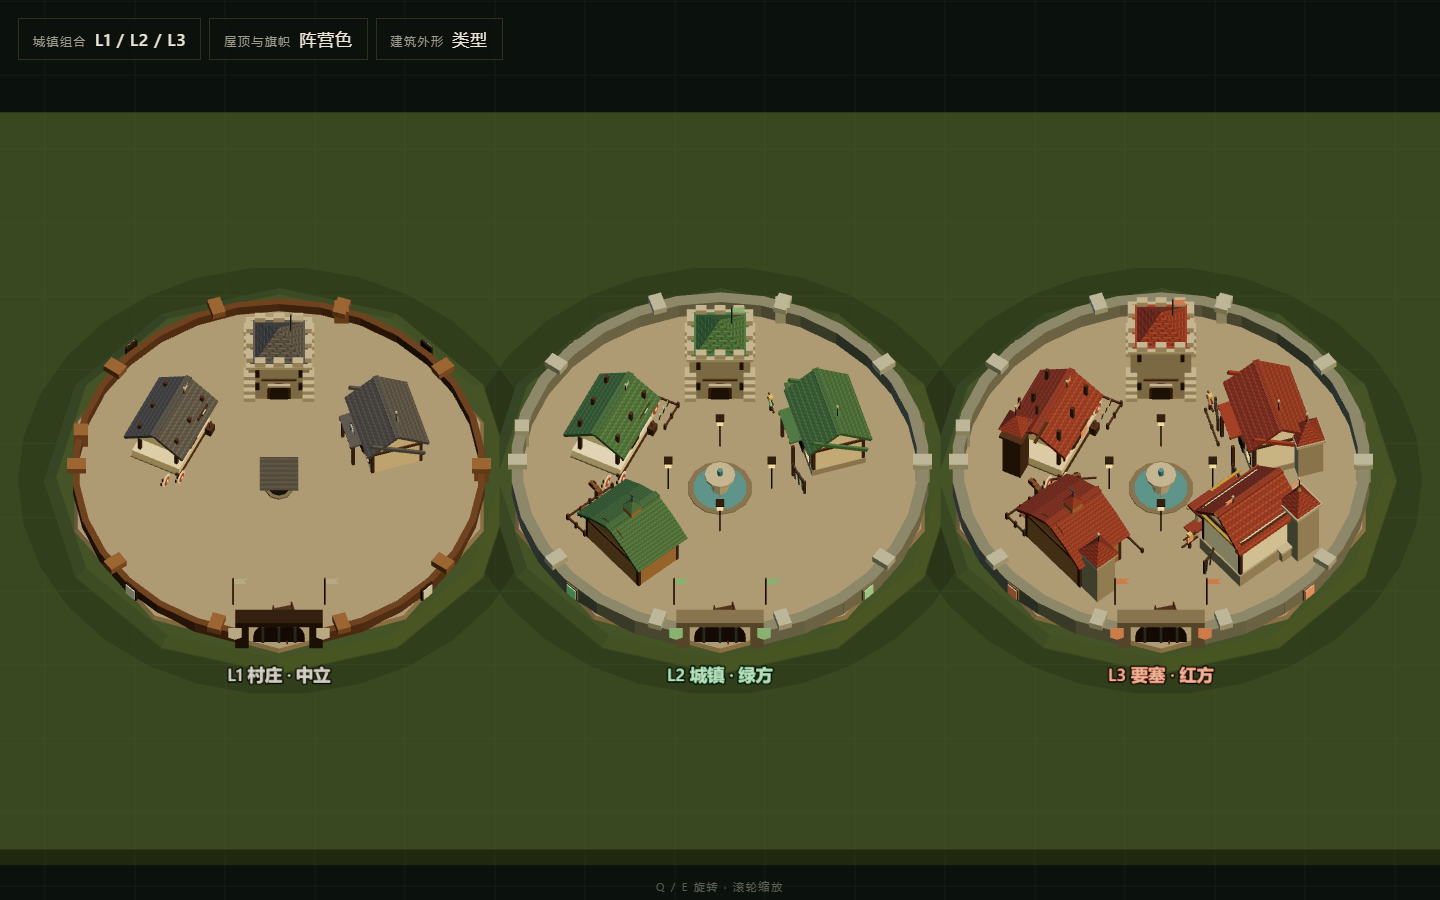
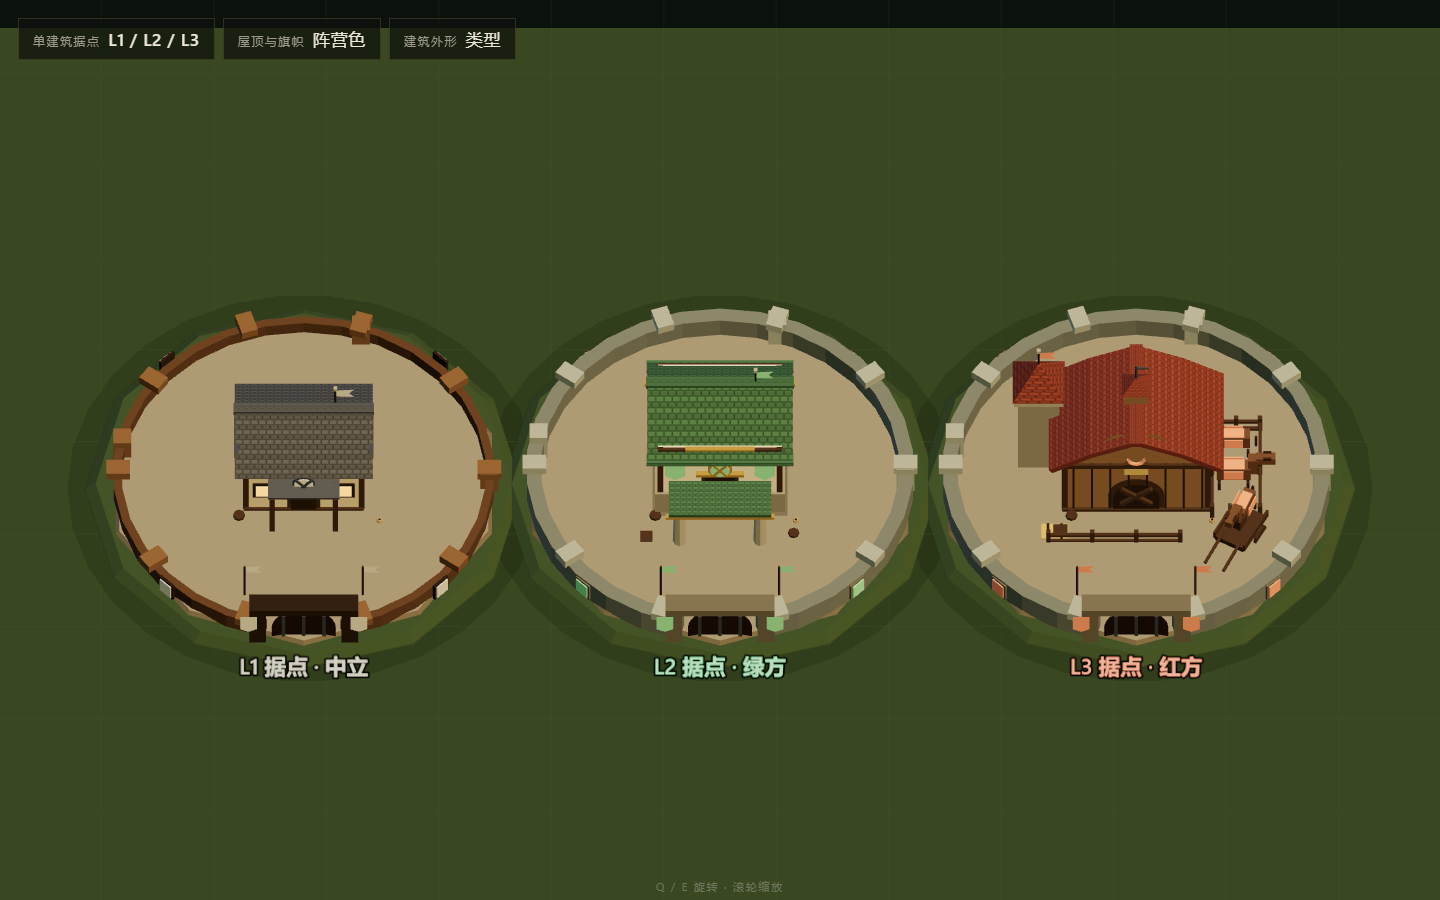
据点改回单建筑并放慢行军

diff --git a/apps/client/src/game/buildings.ts b/apps/client/src/game/buildings.ts
@@ -35,89 +35,6 @@ import type { BuildingKind } from "./building-types";
 
 export * from "./building-types";
 
-export interface BuildingPlacement {
-  kind: BuildingKind;
-  x: number;
-  z: number;
-  rotation: number;
-}
-
-const SLOTS: Array<{ x: number; z: number }> = [
-  { x: -2.4, z: -0.95 },
-  { x: 2.4, z: -0.95 },
-  { x: -1.95, z: 1.95 },
-  { x: 1.95, z: 1.95 },
-];
-
-export function townPlacements(level: number, seed: number): BuildingPlacement[] {
-  const back: BuildingKind[] = (seed & 1) === 0 ? ["infantry", "archer"] : ["archer", "infantry"];
-  const front: BuildingKind[] = (seed & 2) === 0 ? ["cavalry", "elite"] : ["elite", "cavalry"];
-  const kinds: BuildingKind[] = [back[0], back[1], front[0], front[1]];
-  const count = Math.min(4, Math.max(2, level + 1));
-  return SLOTS.slice(0, count).map((slot, index) => ({
-    kind: kinds[index],
-    x: slot.x,
-    z: slot.z,
-    rotation: Math.atan2(-slot.x, -slot.z) + ((seed >> (index + 2)) & 1 ? 0.08 : -0.08),
-  }));
-}
-
-export function buildKeep(palette: TeamPalette, level: number): THREE.Group {
-  const builder = new ModelBuilder();
-  const roof = roofMat(palette);
-  const edge = edgeMat(palette);
-  const cloth = clothMat(palette);
-  const width = 1.35;
-  const depth = 1.25;
-  const tower = 1.35 + (Math.min(3, Math.max(1, level)) - 1) * 0.3;
-  const baseY = 0.14;
-  const top = baseY + tower;
-
-  builder.box([1.65, 0.14, 1.55], STONE_DARK_MAT, 0, 0.07, 0);
-  builder.box([width, tower, depth], STONE_MAT, 0, baseY + tower / 2, 0);
-
-  for (const x of [-width / 2 + 0.02, width / 2 - 0.02]) {
-    for (const z of [-depth / 2 + 0.02, depth / 2 - 0.02]) {
-      for (let index = 0; index < 4; index += 1) {
-        const y = baseY + 0.18 + index * 0.28;
-        if (y > top - 0.2) continue;
-        builder.box([0.26, 0.13, 0.26], STONE_LIGHT_MAT, x, y, z);
-      }
-    }
-  }
-
-  builder.box([width + 0.13, 0.09, depth + 0.13], STONE_LIGHT_MAT, 0, top - 0.02, 0);
-  const merlonY = top + 0.11;
-  for (const z of [-depth / 2 + 0.02, depth / 2 - 0.02]) {
-    for (const x of [-0.42, 0, 0.42]) {
-      builder.box([0.24, 0.18, 0.15], STONE_LIGHT_MAT, x, merlonY, z);
-    }
-  }
-  for (const x of [-width / 2 + 0.02, width / 2 - 0.02]) {
-    for (const z of [-0.36, 0.04, 0.44]) {
-      builder.box([0.15, 0.18, 0.24], STONE_LIGHT_MAT, x, merlonY, z);
-    }
-  }
-
-  builder.cone(0.75, 0.55, 4, roof, 0, top + 0.315, 0, Math.PI / 4);
-  builder.box([1.28, 0.05, 1.18], edge, 0, top + 0.02, 0);
-  builder.cylinder(0.018, 0.018, 0.62, 5, IRON_MAT, 0.26, top + 0.78, 0);
-  builder.shape(flagShape(0.3, 0.19), cloth, 0.28, top + 1.06, 0);
-
-  archDoor(builder, 0.4, 0.6, depth / 2 + 0.01, baseY, DARK_MAT);
-  builder.box([0.5, 0.07, 0.08], STONE_LIGHT_MAT, 0, baseY + 0.63, depth / 2 + 0.02);
-  builder.box([0.72, 0.07, 0.26], STONE_LIGHT_MAT, 0, 0.09, depth / 2 + 0.13);
-  builder.box([0.86, 0.07, 0.18], STONE_DARK_MAT, 0, 0.05, depth / 2 + 0.22);
-
-  for (const x of [-0.48, 0.48]) {
-    builder.box([0.09, 0.26, 0.04], DARK_MAT, x, 0.72, depth / 2 + 0.01);
-    builder.box([0.09, 0.26, 0.04], DARK_MAT, x, top - 0.28, depth / 2 + 0.01);
-  }
-  builder.box([0.78, 0.04, 0.04], TIMBER_MAT, 0, 0.98, depth / 2 + 0.02);
-
-  return builder.finish();
-}
-
 export function buildWall(level: number, palette: TeamPalette, radius = 4.5): THREE.Group {
   const builder = new ModelBuilder();
   const stone = level === 1 ? material(0x5c422c, { rough: 1 }) : material(0x6f736c, { rough: 1 });
@@ -191,54 +108,34 @@ export function buildWall(level: number, palette: TeamPalette, radius = 4.5): TH
   return builder.finish();
 }
 
-export function buildTown(level: number, palette: TeamPalette, seed: number): THREE.Group {
-  const group = new THREE.Group();
-  const keep = buildKeep(palette, level);
-  keep.position.set(0, 0, -2.7);
-  group.add(keep);
+export const TOWN_BUILDINGS: BuildingKind[] = ["infantry", "shield", "cavalry", "archer", "elite"];
 
-  for (const placement of townPlacements(level, seed)) {
-    const variant = Math.abs(seed + Math.round(placement.x * 3));
-    const building = buildBuilding(placement.kind, palette, level, variant);
-    building.position.set(placement.x, 0, placement.z);
-    building.rotation.y = placement.rotation;
-    group.add(building);
-  }
+export function townBuildingKind(seed: number): BuildingKind {
+  return TOWN_BUILDINGS[Math.abs(seed) % TOWN_BUILDINGS.length];
+}
+
+export function buildTown(level: number, palette: TeamPalette, seed: number, forced?: BuildingKind): THREE.Group {
+  const group = new THREE.Group();
+  const kind = forced ?? townBuildingKind(seed);
+  const building = buildBuilding(kind, palette, level, Math.abs(seed) % 7);
+  const scale = 1.42;
+  building.scale.multiplyScalar(scale);
+  building.position.set(0, 0, -0.25);
+  group.add(building);
 
   const props = new ModelBuilder();
   const cloth = clothMat(palette);
-  if (level >= 2) {
-    props.cylinder(0.72, 0.78, 0.24, 14, STONE_DARK_MAT, 0, 0.12, 0.35);
-    props.cylinder(0.6, 0.6, 0.2, 14, WATER_MAT, 0, 0.14, 0.35);
-    props.cylinder(0.16, 0.2, 0.58, 8, STONE_LIGHT_MAT, 0, 0.42, 0.35);
-    props.cylinder(0.34, 0.34, 0.07, 12, STONE_LIGHT_MAT, 0, 0.72, 0.35);
-    props.cylinder(0.06, 0.06, 0.2, 8, WATER_MAT, 0, 0.82, 0.35);
-    for (const angle of [0, Math.PI / 2, Math.PI, (3 * Math.PI) / 2]) {
-      lamp(props, Math.cos(angle) * 1.15, 0.35 + Math.sin(angle) * 1.15, 1.0);
-    }
-  } else {
-    props.cylinder(0.31, 0.33, 0.26, 10, STONE_DARK_MAT, 0, 0.13, 0.35);
-    props.cylinder(0.23, 0.23, 0.27, 10, material(0x171310), 0, 0.14, 0.35);
-    for (const x of [-0.3, 0.3]) {
-      props.box([0.05, 0.56, 0.05], TIMBER_MAT, x, 0.45, 0.35);
-    }
-    props.box([0.78, 0.045, 0.05], TIMBER_MAT, 0, 0.71, 0.35);
-    props.box([0.86, 0.06, 0.74], roofMat(palette, 0.9), 0, 0.78, 0.35, 0.56, 0, 0);
-  }
 
-  cart(props, 0.15, 3.9, 0.24);
-  crate(props, -1.4, 3.9, 0.9);
-  barrel(props, -1.2, 3.55, 0.8);
-  sack(props, 0.85, 3.8, 0.9);
-
+  crate(props, -1.55, 0.92, 0.85);
+  barrel(props, -1.15, 0.75, 1.15);
+  sack(props, 1.35, 0.85, 0.9);
   for (const side of [-1, 1]) {
-    const x = side * 1.02;
-    const z = 3.5;
-    props.cylinder(0.07, 0.09, 0.1, 8, STONE_MAT, x, 0.05, z);
-    props.cylinder(0.022, 0.022, 1.2, 5, TIMBER_MAT, x, 0.62, z);
-    props.shape(flagShape(0.3, 0.2), cloth, x + 0.02, 1.2, z);
+    const x = side * 1.05;
+    const z = 2.45;
+    props.cylinder(0.06, 0.08, 0.1, 8, STONE_MAT, x, 0.05, z);
+    props.cylinder(0.02, 0.02, 1.05, 5, TIMBER_MAT, x, 0.56, z);
+    props.shape(flagShape(0.28, 0.18), cloth, x + 0.02, 1.08, z);
   }
-
   group.add(props.finish());
   return group;
 }

diff --git a/apps/client/src/game/scene.ts b/apps/client/src/game/scene.ts
@@ -1,7 +1,7 @@
 import * as THREE from "three";
 import type { CityId, CityState, MapDef, Owner, SimState, SquadState } from "@marchlands/sim";
 import { art } from "./assets";
-import { buildBuilding, buildTown, buildWall, paletteFor } from "./buildings";
+import { buildBuilding, buildTown, buildWall, paletteFor, townBuildingKind } from "./buildings";
 import { UnitActor } from "./unit-actor";
 import type { UnitKind } from "./unit-models";
 
@@ -121,7 +121,7 @@ export class BattleScene {
   pickCity(clientX: number, clientY: number, state: SimState): CityId | null {
     const rect = this.canvas.getBoundingClientRect();
     let bestId: CityId | null = null;
-    let bestDistance = 48;
+    let bestDistance = 72;
     for (const city of state.cities) {
       const position = this.positions.get(city.id);
       if (!position) continue;
@@ -198,7 +198,7 @@ export class BattleScene {
         this.rebuildCityModel(view, city);
       }
 
-      view.label.position.y = 5.4;
+      view.label.position.y = 3.9;
       const label = `${city.id} · L${city.level}\n${city.pop}/${city.maxPop}`;
       if (label !== view.labelText) {
         view.labelText = label;
@@ -279,7 +279,7 @@ export class BattleScene {
     group.position.copy(position);
 
     const shadow = new THREE.Mesh(
-      new THREE.CircleGeometry(5.8, 30),
+      new THREE.CircleGeometry(4.2, 30),
       new THREE.MeshBasicMaterial({ color: 0x000000, transparent: true, opacity: 0.14, depthWrite: false }),
     );
     shadow.rotation.x = -Math.PI / 2;
@@ -287,7 +287,7 @@ export class BattleScene {
     group.add(shadow);
 
     const apron = new THREE.Mesh(
-      new THREE.CylinderGeometry(4.95, 5.25, 0.16, 12),
+      new THREE.CylinderGeometry(3.7, 3.9, 0.16, 12),
       new THREE.MeshStandardMaterial({ color: 0x3d4f34, roughness: 1, flatShading: true }),
     );
     apron.position.y = 0.08;
@@ -295,7 +295,7 @@ export class BattleScene {
 
     const platformSide = new THREE.MeshStandardMaterial({ color: 0x6a6150, roughness: 1, flatShading: true });
     const platformTop = new THREE.MeshStandardMaterial({ map: flagstoneTexture(), roughness: 0.95 });
-    const platform = new THREE.Mesh(new THREE.CylinderGeometry(4.7, 5.0, 0.22, 10), [
+    const platform = new THREE.Mesh(new THREE.CylinderGeometry(3.45, 3.7, 0.22, 10), [
       platformSide,
       platformTop,
       platformSide,
@@ -315,8 +315,8 @@ export class BattleScene {
     const label = new THREE.Sprite(
       new THREE.SpriteMaterial({ map: texture, transparent: true, depthTest: false }),
     );
-    label.scale.set(5.8, 1.85, 1);
-    label.position.y = 5.4;
+    label.scale.set(4.5, 1.45, 1);
+    label.position.y = 3.9;
     group.add(label);
 
     this.scene.add(group);
@@ -343,8 +343,8 @@ export class BattleScene {
     const seed = hashId(city.id) + city.level * 17;
     const palette = paletteFor(city.owner);
     if (city.kind === "town") {
-      const built = buildTown(city.level, palette, seed);
-      built.add(buildWall(city.level, palette, 4.5));
+      const built = buildTown(city.level, palette, seed, townBuildingKind(hashId(city.id)));
+      built.add(buildWall(city.level, palette, 3.3));
       view.model.add(built);
     } else {
       const kind = city.kind === "granary" ? "granary" : "tower";
@@ -467,7 +467,7 @@ export class BattleScene {
   private buildRoads(): void {
     const width = 1.6;
     const centerId = "c3";
-    const cityRadius = () => 5.0;
+    const cityRadius = () => 3.75;
     const roadMaterial = new THREE.MeshStandardMaterial({ map: cobbleTexture(1, 1), roughness: 1 });
     const plazaMaterial = new THREE.MeshStandardMaterial({ map: cobbleTexture(2, 2), roughness: 1 });
     const curbMaterial = new THREE.MeshStandardMaterial({ color: 0xb3aa96, roughness: 1 });
@@ -551,7 +551,7 @@ export class BattleScene {
   private addRoundabout(centerId: string, width: number, plazaMaterial: THREE.Material, curbMaterial: THREE.Material): void {
     const center = this.positions.get(centerId);
     if (!center) return;
-    const inner = 5.0;
+    const inner = 3.75;
     const outer = inner + width;
     const ringMaterial = new THREE.MeshStandardMaterial({ map: cobbleTexture(10, 2), roughness: 1 });
     const shoulder = new THREE.Mesh(
@@ -643,7 +643,7 @@ export class BattleScene {
       const radius = 15 + random() * 14;
       const x = Math.cos(angle) * radius;
       const z = Math.sin(angle) * radius;
-      if (nearCity(this.positions, x, z, 4.7)) continue;
+      if (nearCity(this.positions, x, z, 3.45)) continue;
       if (nearRoad(this.map.edges, this.positions, x, z, 1.2)) continue;
       plantPlacements.push({ x, z, rotation: random() * Math.PI * 2, scale: 1.8 + random() * 1.2 });
     }

diff --git a/apps/client/src/game/town-showcase.ts b/apps/client/src/game/town-showcase.ts
@@ -3,13 +3,13 @@ import { buildTown, buildWall, paletteFor } from "./buildings";
 
 const PITCH = (55 * Math.PI) / 180;
 const DISTANCE = 96;
-const VIEW_HEIGHT = 20;
+const VIEW_HEIGHT = 16;
 const TARGET = new THREE.Vector3(0, 1.2, 0);
 
 const TOWNS = [
-  { x: -9.8, level: 1, owner: 0, title: "L1 村庄 · 中立", color: "#c2bcaa" },
-  { x: 0, level: 2, owner: 1, title: "L2 城镇 · 绿方", color: "#8ed9a0" },
-  { x: 9.8, level: 3, owner: 2, title: "L3 要塞 · 红方", color: "#ef9278" },
+  { x: -7.4, level: 1, owner: 0, title: "L1 据点 · 中立", color: "#c2bcaa", kind: "infantry" as const },
+  { x: 0, level: 2, owner: 1, title: "L2 据点 · 绿方", color: "#8ed9a0", kind: "elite" as const },
+  { x: 7.4, level: 3, owner: 2, title: "L3 据点 · 红方", color: "#ef9278", kind: "cavalry" as const },
 ];
 
 export function runTownShowcase(host: HTMLElement): void {
@@ -17,7 +17,7 @@ export function runTownShowcase(host: HTMLElement): void {
     '<canvas id="town-canvas"></canvas>',
     '<div class="hud">',
     '  <div class="hud-left">',
-    '    <div class="chip">城镇组合 <b>L1 / L2 / L3</b></div>',
+    '    <div class="chip">单建筑据点 <b>L1 / L2 / L3</b></div>',
     '    <div class="chip">屋顶与旗帜 <b>阵营色</b></div>',
     '    <div class="chip">建筑外形 <b>类型</b></div>',
     '  </div>',
@@ -105,13 +105,13 @@ class TownShowcase {
     this.scene.add(grid);
 
     for (const town of TOWNS) {
-      const group = buildTown(town.level, paletteFor(town.owner), town.owner * 31 + town.level);
-      group.add(buildWall(town.level, paletteFor(town.owner), 4.5));
+      const group = buildTown(town.level, paletteFor(town.owner), town.owner * 31 + town.level, town.kind);
+      group.add(buildWall(town.level, paletteFor(town.owner), 3.3));
       group.position.set(town.x, 0, 0);
       this.scene.add(group);
 
       const shadow = new THREE.Mesh(
-        new THREE.CircleGeometry(5.8, 30),
+        new THREE.CircleGeometry(4.2, 30),
         new THREE.MeshBasicMaterial({ color: 0x000000, transparent: true, opacity: 0.14, depthWrite: false }),
       );
       shadow.rotation.x = -Math.PI / 2;
@@ -119,7 +119,7 @@ class TownShowcase {
       this.scene.add(shadow);
 
       const apron = new THREE.Mesh(
-        new THREE.CylinderGeometry(4.95, 5.25, 0.16, 12),
+        new THREE.CylinderGeometry(3.7, 3.9, 0.16, 12),
         new THREE.MeshStandardMaterial({ color: 0x3d4f34, roughness: 1, flatShading: true }),
       );
       apron.position.set(town.x, 0.08, 0);
@@ -127,12 +127,12 @@ class TownShowcase {
 
       const side = new THREE.MeshStandardMaterial({ color: 0x6a6150, roughness: 1, flatShading: true });
       const top = new THREE.MeshStandardMaterial({ color: 0x8a8270, roughness: 0.95 });
-      const platform = new THREE.Mesh(new THREE.CylinderGeometry(4.7, 5.0, 0.22, 10), [side, top, side]);
+      const platform = new THREE.Mesh(new THREE.CylinderGeometry(3.45, 3.7, 0.22, 10), [side, top, side]);
       platform.position.set(town.x, 0.11, 0);
       this.scene.add(platform);
 
       const caption = label(town.title, town.color);
-      caption.position.set(town.x, 1.0, 6.0);
+      caption.position.set(town.x, 1.0, 4.6);
       this.scene.add(caption);
     }
   }

diff --git a/apps/client/src/game/session.ts b/apps/client/src/game/session.ts
@@ -64,7 +64,7 @@ export class GameSession {
     const requested = Number(new URLSearchParams(window.location.search).get("speed") ?? "1");
     this.timeScale = import.meta.env.DEV ? Math.max(1, Math.min(20, Number.isFinite(requested) ? requested : 1)) : 1;
     this.ai = createAi(2);
-    this.state = createGame(options.map, Math.floor(Math.random() * 1_000_000_000), options.rules);
+    this.state = createGame(options.map, Math.floor(Math.random() * 1_000_000_000), this.slowRules());
     this.scene = new BattleScene(options.canvas, options.map);
     this.routeOverlay = new RouteOverlay({
       canvas: options.canvas,
@@ -74,6 +74,14 @@ export class GameSession {
     this.bindInput();
     this.select("c1");
     this.updateHud();
+  }
+
+  private slowRules() {
+    if (!this.options.rules) return undefined;
+    return {
+      ...this.options.rules,
+      speedDmPerSecond: Math.max(1, this.options.rules.speedDmPerSecond * 0.7),
+    };
   }
 
   start(): void {
@@ -99,7 +107,7 @@ export class GameSession {
   restart(): void {
     this.routeOverlay.dispose();
     this.scene.dispose();
-    this.state = createGame(this.options.map, Math.floor(Math.random() * 1_000_000_000), this.options.rules);
+    this.state = createGame(this.options.map, Math.floor(Math.random() * 1_000_000_000), this.slowRules());
     this.scene = new BattleScene(this.options.canvas, this.options.map);
     this.routeOverlay = new RouteOverlay({
       canvas: this.options.canvas,

diff --git a/tests/e2e/flow.spec.ts b/tests/e2e/flow.spec.ts
@@ -16,8 +16,8 @@ test("starts a match and captures an adjacent town", async ({ page }) => {
 
   await page.waitForTimeout(400);
   await page.mouse.click(420, 352);
-  await expect(page.locator("#hud-cities")).toHaveText("2", { timeout: 8_000 });
-  await expect(page.locator("#toast")).toContainText("c4 已占领");
+  await expect(page.locator("#hud-cities")).toHaveText("2", { timeout: 20_000 });
+  await expect(page.locator("#toast")).toContainText("c4 已占领", { timeout: 20_000 });
 });
 
 test("pauses and resumes without losing the match", async ({ page }) => {
